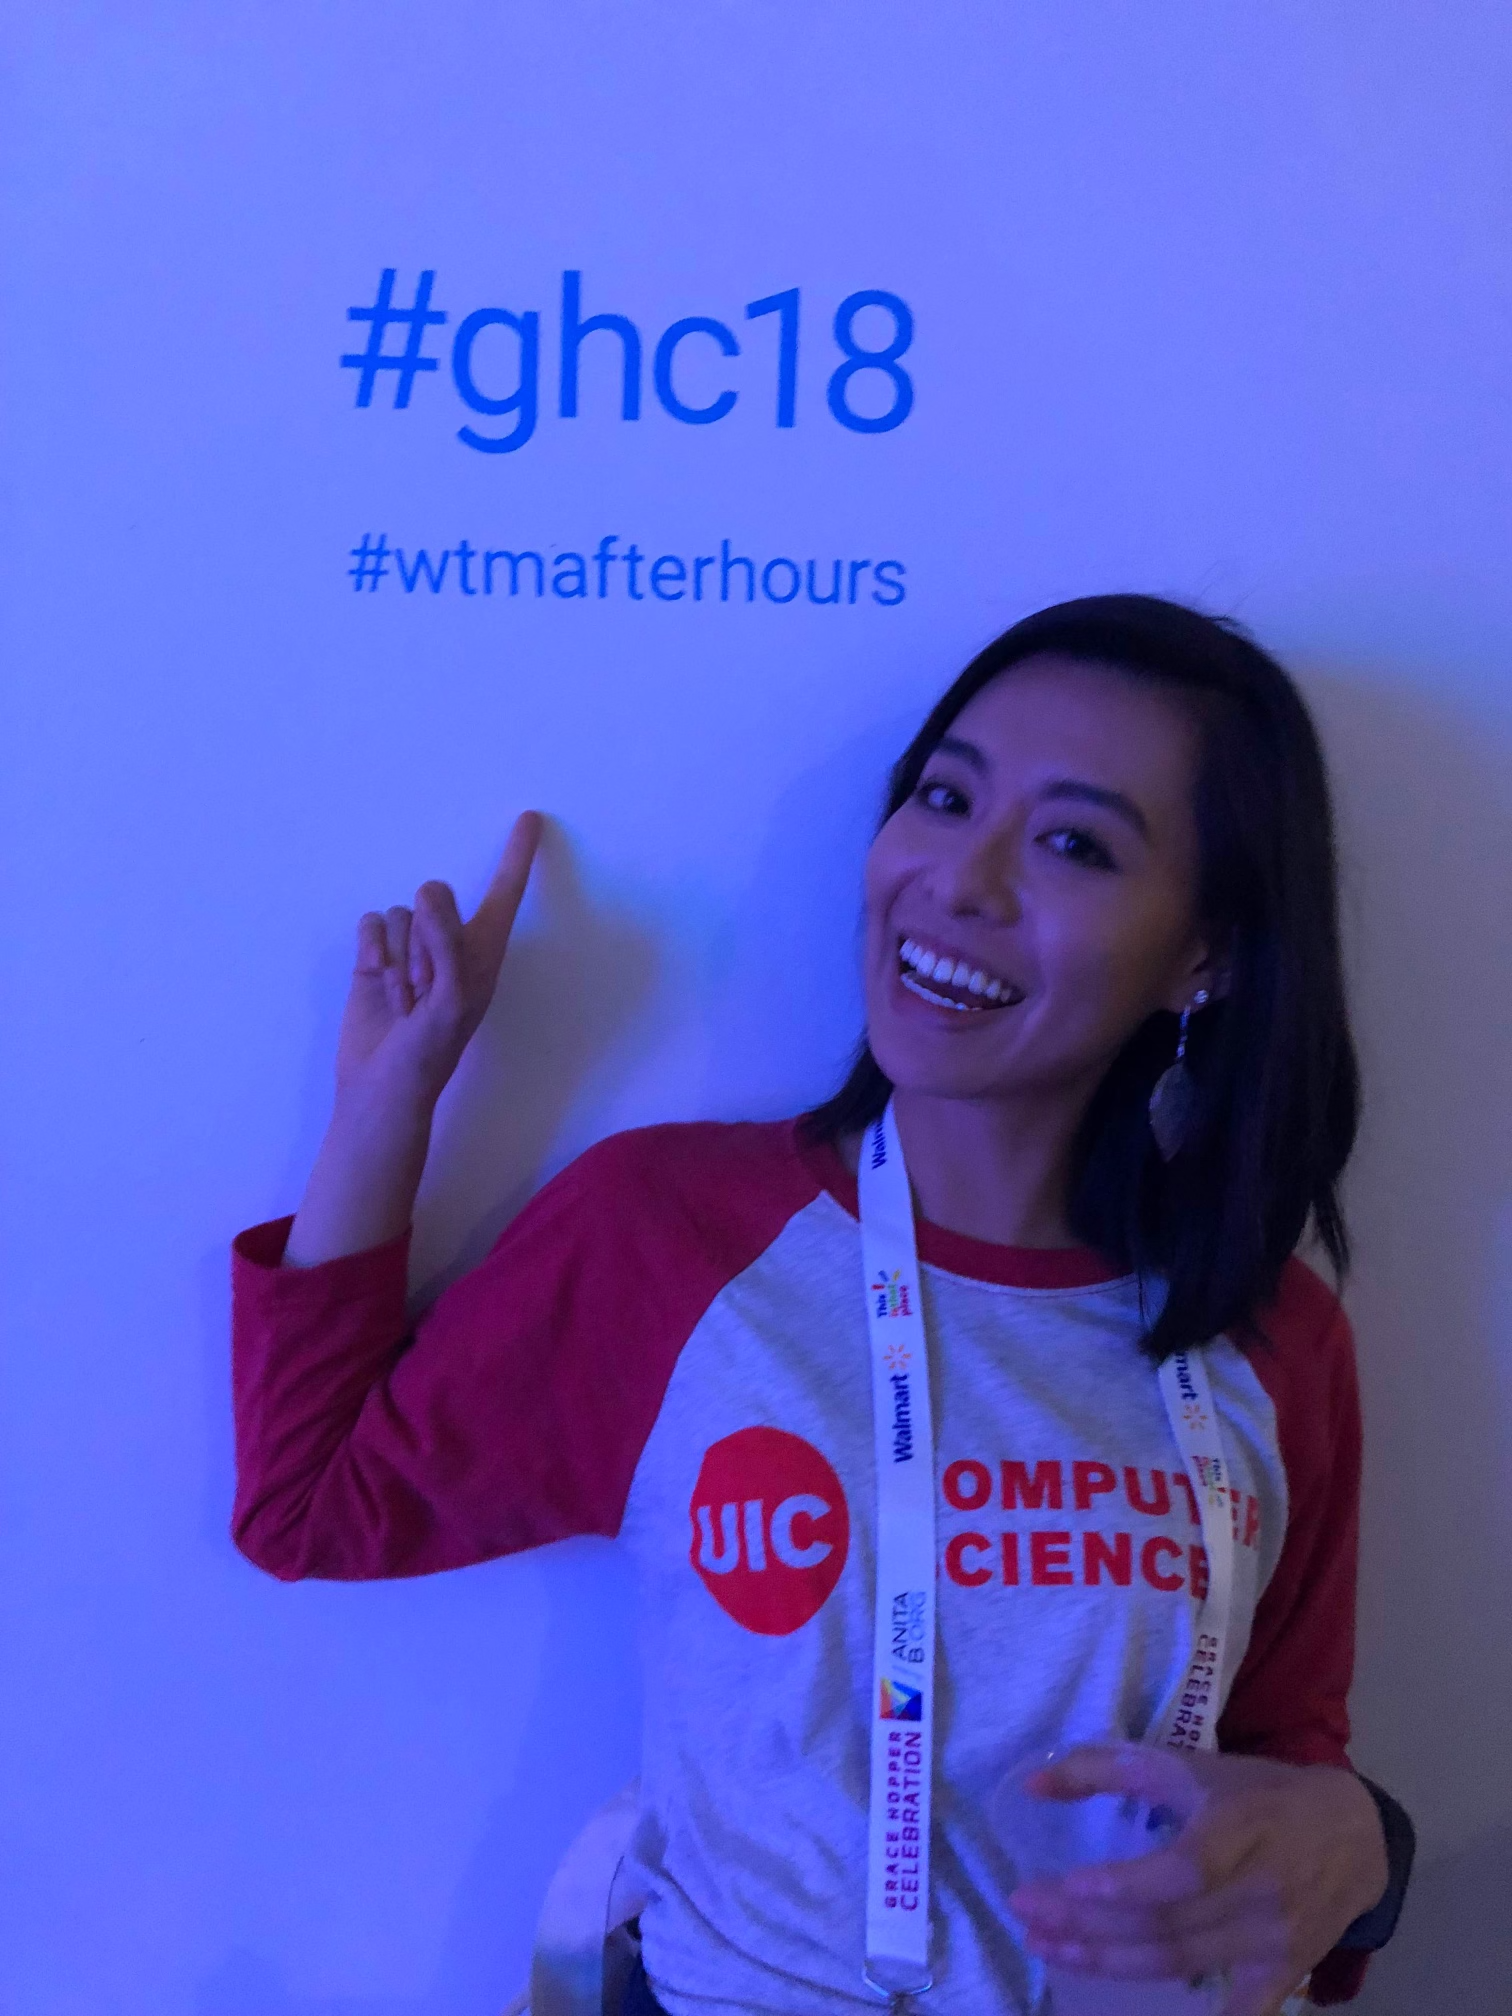
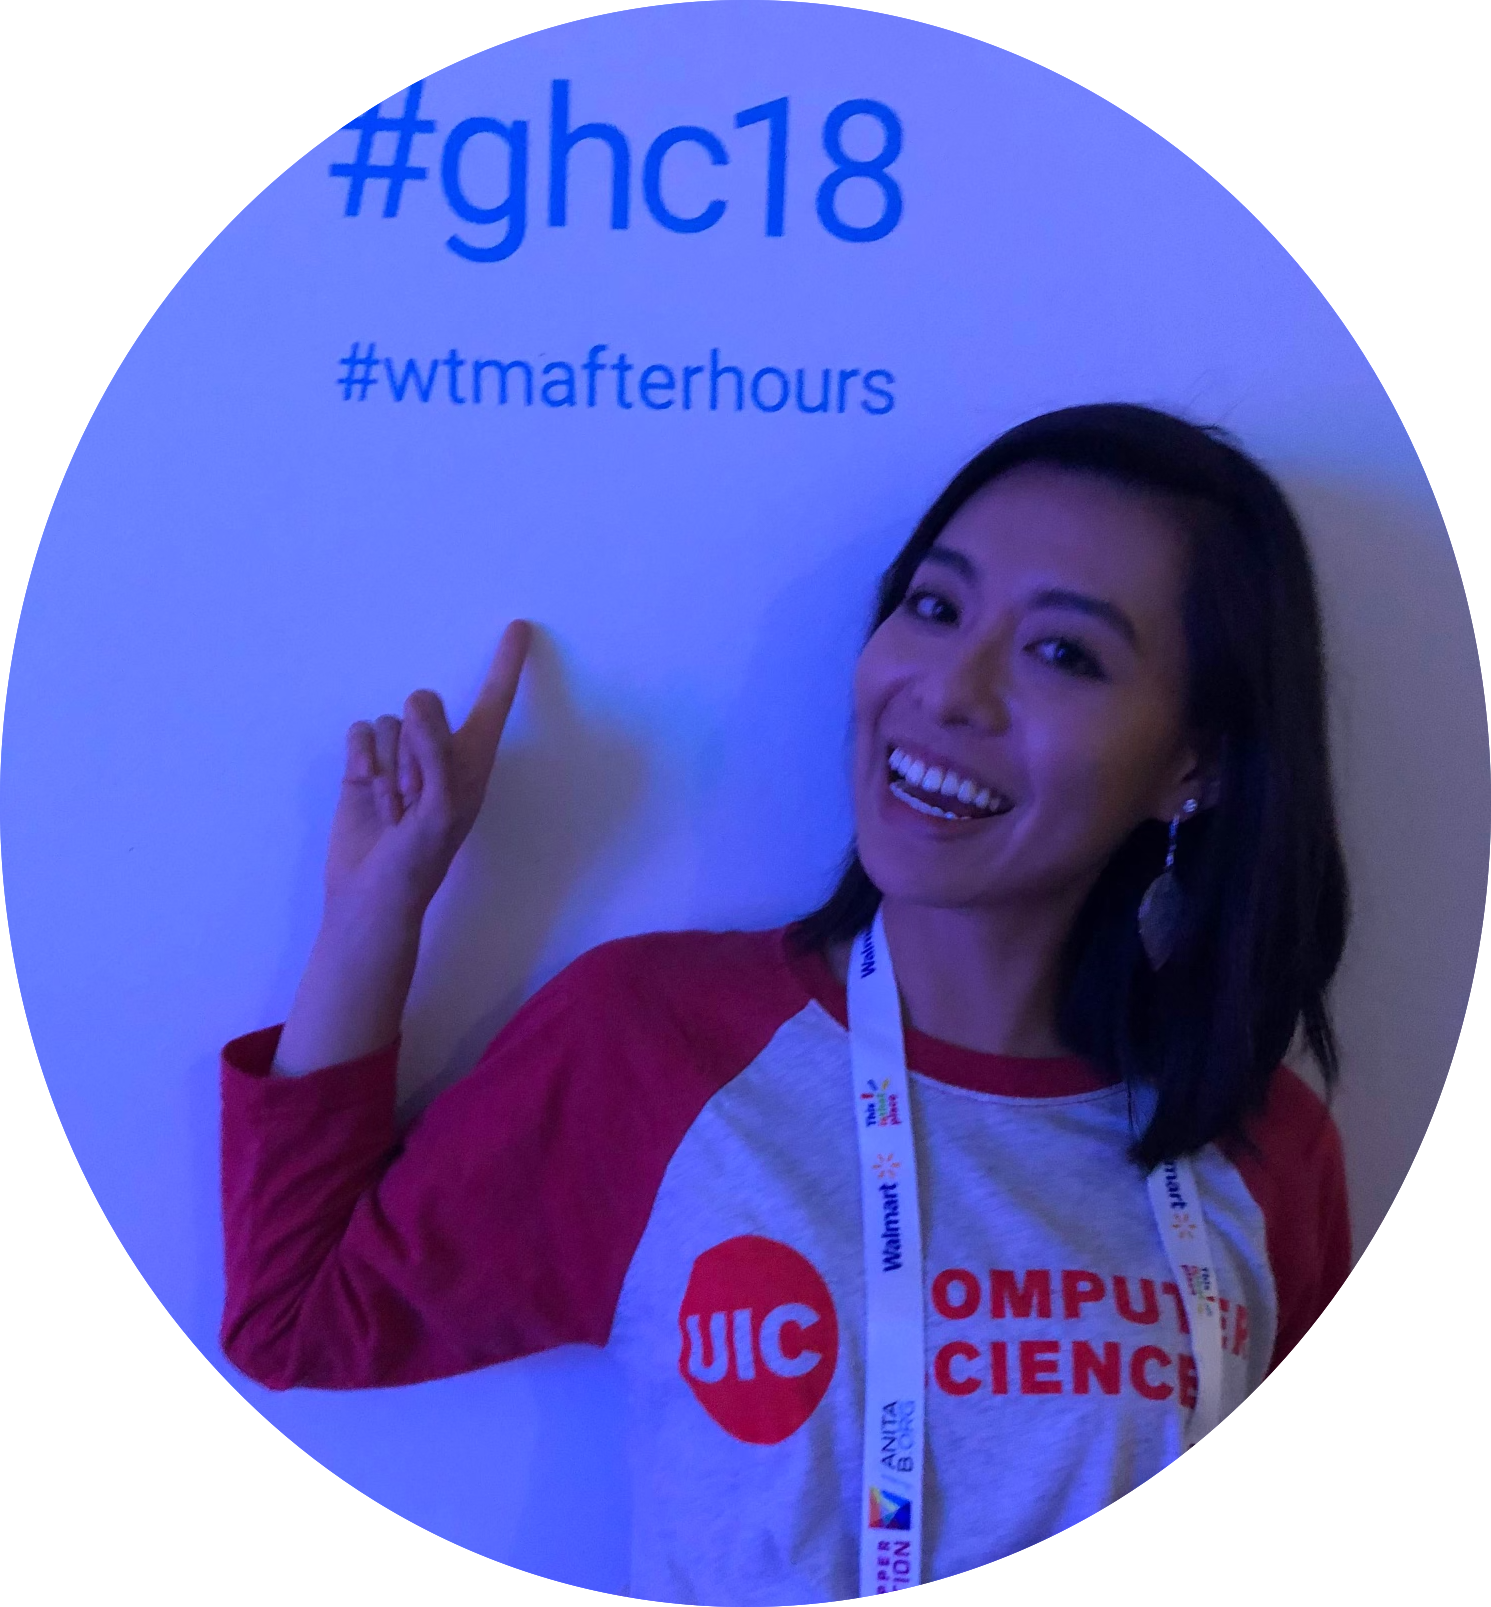
Updated hero image

diff --git a/src/pages/index.tsx b/src/pages/index.tsx
@@ -2,6 +2,7 @@ import { Box, Grid, Typography } from '@mui/material';
 import Head from 'next/head';
 import Image from 'next/image';
 import { Layout } from '../components';
+import heroPic from '../../public/hero.png';
 
 export default function Home() {
   return (
@@ -16,18 +17,16 @@ export default function Home() {
         <Grid item>
           <Box
             sx={{
-              backgroundColor: '#7299db',
-              borderRadius: '50%',
               height: 500,
               mx: '2rem',
               width: 500,
             }}
           >
-            <Image src="/hero.png" alt="me" width="200" height="300" />
+            <Image src={heroPic} alt="Photo of Lydia" />
           </Box>
         </Grid>
         <Grid item>
-          <Typography variant="h2">Hi there, I'm a</Typography>
+          <Typography variant="h2">Hi there! I'm a</Typography>
           <Typography variant="h2">Computer Scientist,</Typography>
           <Typography variant="h2">Teacher &amp;</Typography>
           <Typography variant="h2">Lifelong Learner.</Typography>
